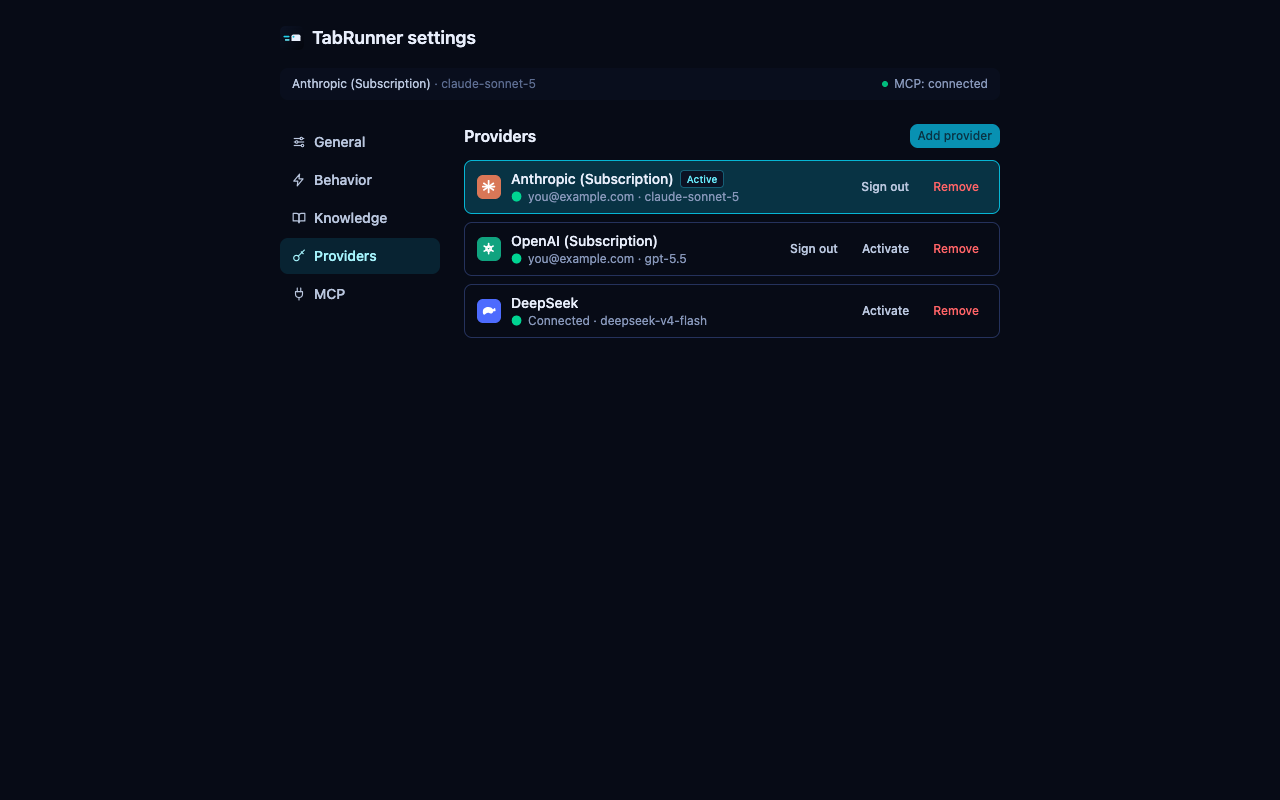
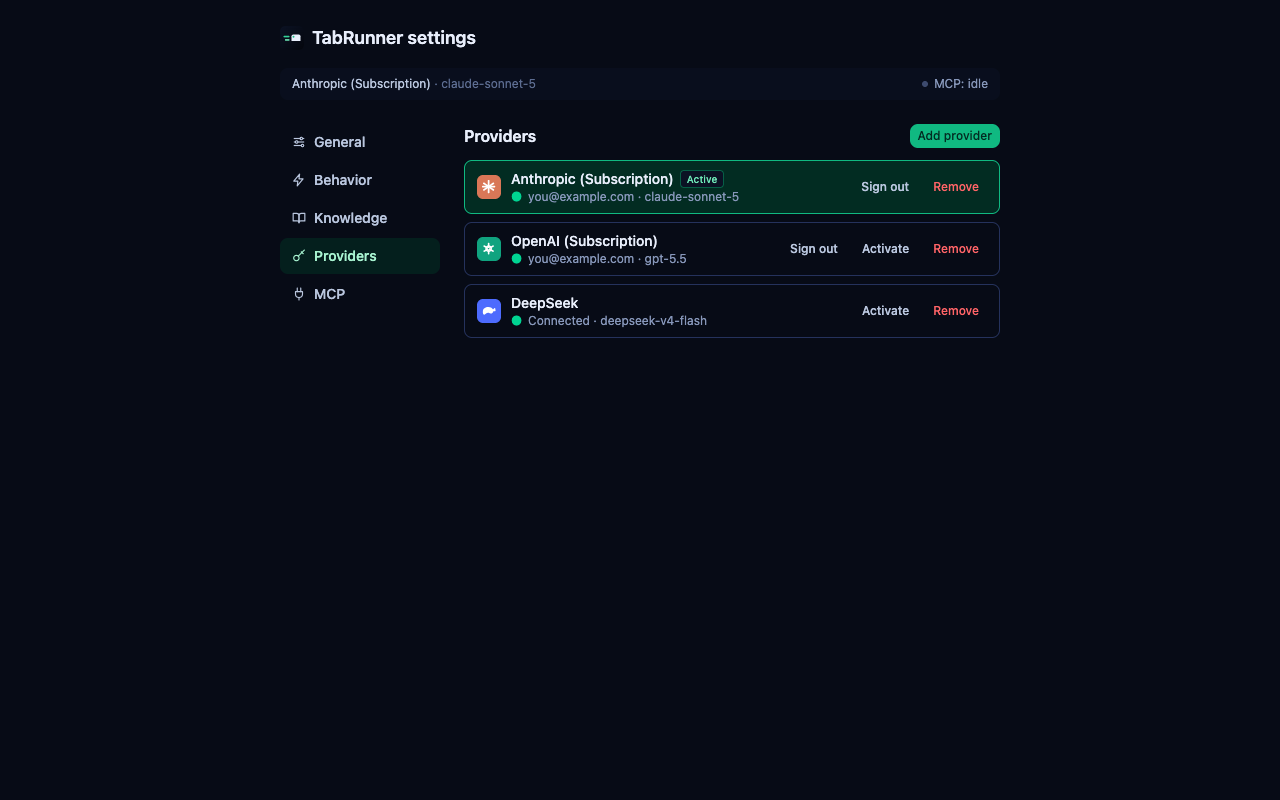
feat(ui): comet-burn emerald replaces the brief cyan
Cyan read cold and its fills took ink badly (white-on-cyan ~3:1, dark ink
muddy); pink pulled the design language louder than the product. Emerald
keeps the language intact, passes AA with dark ink (brand-950 on
brand-500 ~6:1), and hands the comet a true story — meteors burn green
on entry. Tokens, mark, on-page widget accents, OG, icons and the four
store shots regenerate from source; store-listing describes the new set.

Changed region(s): [[0.3438, 0.1562, 0.7812, 0.2812], [0.6875, 0.0938, 0.7812, 0.125], [0.25, 0.3125, 0.2812, 0.3438]]

diff --git a/scripts/gen-icons.ts b/scripts/gen-icons.ts
@@ -52,10 +52,10 @@ function ogSvg(): string {
   // so its tab silhouette repeats the logo.ts geometry inline (scale 4.4).
   const heroComet = `
   <g transform="translate(920, 105) rotate(18) scale(4.4)">
-    <path d="M 23 19.5 L 5 16 L 23 23 Z" fill="#67e8f9" opacity="0.85" />
-    <path d="M 23 24 L 8 30.5 L 23 27.5 Z" fill="#22d3ee" opacity="0.55" />
+    <path d="M 23 19.5 L 5 16 L 23 23 Z" fill="#6ee7b7" opacity="0.85" />
+    <path d="M 23 24 L 8 30.5 L 23 27.5 Z" fill="#34d399" opacity="0.55" />
     <path d="M 23 30 L 23 20.5 Q 23 17 26.5 17 L 37.5 17 Q 41 17 41 20.5 L 41 30 Z" fill="#e8eefb" />
-    <circle cx="27" cy="21.5" r="1.8" fill="#06b6d4" />
+    <circle cx="27" cy="21.5" r="1.8" fill="#10b981" />
   </g>`;
 
   return `<svg xmlns="http://www.w3.org/2000/svg" width="${W}" height="${H}" viewBox="0 0 ${W} ${H}">
@@ -65,8 +65,8 @@ function ogSvg(): string {
       <stop offset="1" stop-color="#04060d" />
     </linearGradient>
     <linearGradient id="trail" x1="0" y1="0" x2="1" y2="0">
-      <stop offset="0" stop-color="#22d3ee" stop-opacity="0" />
-      <stop offset="1" stop-color="#22d3ee" stop-opacity="0.8" />
+      <stop offset="0" stop-color="#34d399" stop-opacity="0" />
+      <stop offset="1" stop-color="#34d399" stop-opacity="0.8" />
     </linearGradient>
   </defs>
   <rect width="${W}" height="${H}" fill="url(#ground)" />
@@ -75,13 +75,13 @@ function ogSvg(): string {
   ${heroComet}
   <g transform="translate(96, 108) scale(0.8)">${cometSvg()}</g>
   <text x="146" y="140" font-family="JetBrains Mono" font-size="21" letter-spacing="6" fill="#e8eefb">TABRUNNER</text>
-  <text x="96" y="196" font-family="JetBrains Mono" font-size="21" letter-spacing="6" fill="#67e8f9">BROWSER AGENT · ANY PROVIDER</text>
+  <text x="96" y="196" font-family="JetBrains Mono" font-size="21" letter-spacing="6" fill="#6ee7b7">BROWSER AGENT · ANY PROVIDER</text>
   <text x="92" y="330" font-family="Unbounded" font-weight="600" font-size="76" letter-spacing="-1" fill="#e8eefb">You give the goal.</text>
-  <text x="92" y="426" font-family="Unbounded" font-weight="600" font-size="76" letter-spacing="-1" fill="#22d3ee">It runs the tabs.</text>
+  <text x="92" y="426" font-family="Unbounded" font-weight="600" font-size="76" letter-spacing="-1" fill="#34d399">It runs the tabs.</text>
   <text x="96" y="500" font-family="Figtree" font-size="27" fill="#b9c6de">An AI agent drives your real browser — your tabs, sessions</text>
   <text x="96" y="538" font-family="Figtree" font-size="27" fill="#b9c6de">and logins — through any provider you choose.</text>
   <text x="96" y="586" font-family="JetBrains Mono" font-size="19" fill="#8797ba">tabrunner.app</text>
-  <rect x="0" y="${H - 8}" width="${W}" height="8" fill="#22d3ee" />
+  <rect x="0" y="${H - 8}" width="${W}" height="8" fill="#34d399" />
 </svg>`;
 }
 

diff --git a/src/components/Button.tsx b/src/components/Button.tsx
@@ -1,20 +1,23 @@
 import { Button as BaseButton } from "@base-ui-components/react";
 import type { ComponentProps } from "react";
 
-type Variant = "primary" | "danger" | "ghost" | "ghost-danger" | "outline" | "choice";
+type Variant = "primary" | "danger" | "ghost" | "ghost-danger" | "outline" | "choice" | "nav";
 type Size = "sm" | "md";
 
 const VARIANTS: Record<Variant, string> = {
-  primary: "bg-brand-600 text-brand-950 hover:bg-brand-700",
+  primary: "bg-brand-500 text-brand-950 hover:bg-brand-600",
   danger: "bg-red-600 text-white hover:bg-red-700",
   ghost: "text-neutral-600 hover:bg-neutral-100 dark:text-neutral-300 dark:hover:bg-neutral-800",
   "ghost-danger": "text-red-600 hover:bg-red-50 dark:text-red-400 dark:hover:bg-red-950",
   outline:
     "border border-neutral-300 text-neutral-700 hover:bg-neutral-100 dark:border-neutral-600 dark:text-neutral-200 dark:hover:bg-neutral-800",
   // A reply you are about to send: brand-tinted chip, right-aligned toward the
-  // composer, filling toward the user bubble's own cyan as you commit to it.
+  // composer, filling toward the user bubble's own emerald as you commit to it.
   choice:
     "border border-brand-300 bg-brand-50 text-brand-800 hover:border-brand-500 hover:bg-brand-100 dark:border-brand-800 dark:bg-brand-950/60 dark:text-brand-200 dark:hover:border-brand-600 dark:hover:bg-brand-900",
+  // A settings-nav destination: quiet until it's the page you're on — the
+  // active page carries the brand tint via aria-current.
+  nav: "text-neutral-600 hover:bg-neutral-100 aria-[current=page]:bg-brand-50 aria-[current=page]:text-brand-800 dark:text-neutral-300 dark:hover:bg-neutral-800 dark:aria-[current=page]:bg-brand-950/60 dark:aria-[current=page]:text-brand-200",
 };
 
 const SIZES: Record<Size, string> = {

diff --git a/src/lib/theme.css b/src/lib/theme.css
@@ -4,25 +4,26 @@
 @custom-variant dark (&:where(.dark, .dark *));
 
 /*
- * TabRunner brand — comet-ice (2026-08 rebrand, same system as tabrunner.app):
- * ion cyan is the action/motion color, used via brand-* utilities. The scale is
- * Tailwind's cyan under the brand alias so every brand-* usage recolors from
- * here. Live measurement (running dots, the on-page pulse) is amber instead —
- * amber utilities come straight from the default palette; cyan never measures,
- * amber never acts.
+ * TabRunner brand — comet-burn (2026-08, third pass: cyan read cold, pink
+ * pulled the whole design language louder than the product is). Burn emerald
+ * is the action/motion color — the green a comet burns on entry, and the
+ * runner's "go". Tailwind's emerald under the brand alias so every brand-*
+ * usage recolors from here. Fills take DARK ink (brand-950 on brand-500 is
+ * ~6:1). Live measurement (running dots, the on-page pulse) stays amber;
+ * emerald never measures, amber never acts.
  */
 @theme {
-  --color-brand-50: #ecfeff;
-  --color-brand-100: #cffafe;
-  --color-brand-200: #a5f3fc;
-  --color-brand-300: #67e8f9;
-  --color-brand-400: #22d3ee;
-  --color-brand-500: #06b6d4;
-  --color-brand-600: #0891b2;
-  --color-brand-700: #0e7490;
-  --color-brand-800: #155e75;
-  --color-brand-900: #164e63;
-  --color-brand-950: #083344;
+  --color-brand-50: #ecfdf5;
+  --color-brand-100: #d1fae5;
+  --color-brand-200: #a7f3d0;
+  --color-brand-300: #6ee7b7;
+  --color-brand-400: #34d399;
+  --color-brand-500: #10b981;
+  --color-brand-600: #059669;
+  --color-brand-700: #047857;
+  --color-brand-800: #065f46;
+  --color-brand-900: #064e3b;
+  --color-brand-950: #022c22;
 
   /*
    * Neutral, retinted to the deep-field grounds: cool starlight grays at the

diff --git a/src/modules/browser/status-widget.ts b/src/modules/browser/status-widget.ts
@@ -87,17 +87,17 @@ export function paintWidget(
     }
     @keyframes pulse { 0%, 100% { opacity: 1 } 50% { opacity: .25 } }
     @media (prefers-reduced-motion: reduce) { .dot { animation: none } }
-    .brand { flex: none; color: #67e8f9; }
+    .brand { flex: none; color: #6ee7b7; }
     .task { max-width: 220px; overflow: hidden; text-overflow: ellipsis; white-space: nowrap; }
     .queued {
       flex: none; padding: 1px 6px; border-radius: 9999px;
-      background: #22d3ee33; font-size: 11px;
+      background: #34d39933; font-size: 11px;
     }
     .btn {
       flex: none; border: 0; border-radius: 9999px; padding: 3px 8px;
-      background: transparent; color: #67e8f9; font: inherit; cursor: pointer;
+      background: transparent; color: #6ee7b7; font: inherit; cursor: pointer;
     }
-    .btn:hover { background: #22d3ee33; color: #e8eefb; }
+    .btn:hover { background: #34d39933; color: #e8eefb; }
   `;
 
   const pill = document.createElement("div");
@@ -111,7 +111,7 @@ export function paintWidget(
   } else {
     dot.className = "dot";
   }
-  // Self-identifying on unrelated pages — the badge's own cyan language.
+  // Self-identifying on unrelated pages — the badge's own emerald language.
   const brand = document.createElement("span");
   brand.className = "brand";
   brand.textContent = "TabRunner ·";

diff --git a/scripts/shoot-store.ts b/scripts/shoot-store.ts
@@ -279,13 +279,13 @@ async function injectWidget(page: Page, task: string, queued: string) {
       el.style.cssText = `position:fixed;bottom:12px;right:12px;z-index:2147483647;${css}`;
       el.innerHTML =
         `<span style="${dot}"></span>` +
-        `<span style="color:#67e8f9">TabRunner ·</span>` +
+        `<span style="color:#6ee7b7">TabRunner ·</span>` +
         `<span style="max-width:220px;overflow:hidden;text-overflow:ellipsis;white-space:nowrap">${t}</span>` +
         (q
-          ? `<span style="padding:1px 6px;border-radius:9999px;background:#22d3ee33;font-size:11px">${q}</span>`
+          ? `<span style="padding:1px 6px;border-radius:9999px;background:#34d39933;font-size:11px">${q}</span>`
           : "") +
-        `<span style="color:#67e8f9;padding:3px 8px">Open</span>` +
-        `<span style="color:#67e8f9;padding:3px 8px">Hide</span>`;
+        `<span style="color:#6ee7b7;padding:3px 8px">Open</span>` +
+        `<span style="color:#6ee7b7;padding:3px 8px">Hide</span>`;
       document.body.appendChild(el);
     },
     BADGE_CSS,

diff --git a/src/shared/logo.ts b/src/shared/logo.ts
@@ -10,9 +10,9 @@
  */
 
 const TAB = "#e8eefb"; // starlight — the tab itself
-const DOT = "#06b6d4"; // favicon dot
-const TRAIL_NEAR = "#22d3ee"; // ion cyan — closest to the body
-const TRAIL_FAR = "#67e8f9"; // ice — trailing off
+const DOT = "#10b981"; // favicon dot
+const TRAIL_NEAR = "#34d399"; // burn emerald — closest to the body
+const TRAIL_FAR = "#6ee7b7"; // cooling — trailing off
 
 /**
  * Comet-tab glyph on a 48×48 canvas: tab silhouette, favicon dot, two speed

diff --git a/src/components/Bubble.tsx b/src/components/Bubble.tsx
@@ -3,7 +3,7 @@ import type { ComponentProps } from "react";
 type Variant = "default" | "secondary" | "muted" | "destructive";
 
 const VARIANTS: Record<Variant, string> = {
-  default: "bg-brand-600 text-brand-950",
+  default: "bg-brand-500 text-brand-950",
   secondary: "bg-neutral-100 text-neutral-900 dark:bg-neutral-800 dark:text-neutral-100",
   muted: "bg-neutral-100 dark:bg-neutral-800",
   destructive:

diff --git a/docs/store-listing.md b/docs/store-listing.md
@@ -181,11 +181,16 @@ The panel and options pages are TabRunner's own `chrome-extension://` pages, so 
 
 Captured set (in this order — the first is the card image):
 
-1. **`01-side-panel.png`** — the side panel open over a neutral page (Wikipedia), before any
-   task — shows the panel itself is the product, not a browser takeover.
-2. **`02-chat.png`** — a chat in the side panel: the task, the plan, and the run's steps.
-3. **`03-providers.png`** — the options page with the provider list.
-4. **`04-chat-2.png`** — a second chat view.
+1. **`01-side-panel.png`** — Wikipedia's "Web browser" article with the side panel beside it,
+   pre-task: the task typed in the composer, not yet sent. The panel is the product, not a
+   browser takeover.
+2. **`02-chat.png`** — Wikipedia's "Intelligent agent" with a finished run in the panel: user
+   bubble, plan card, tool trace, the agent's summary; the "controlling this tab" badge rides
+   the page's top-right.
+3. **`03-providers.png`** — the options page's Providers tab: subscription rows (Anthropic,
+   OpenAI) and an API-key row (DeepSeek), active provider highlighted.
+4. **`04-chat-2.png`** — Hacker News with a second conversation and the floating status widget
+   bottom-right (task · +1 queued · Open · Hide).
 
 All four are **1280×800 PNG** (16:10), the CWS-required dimensions — no 16:9 crops.
 
